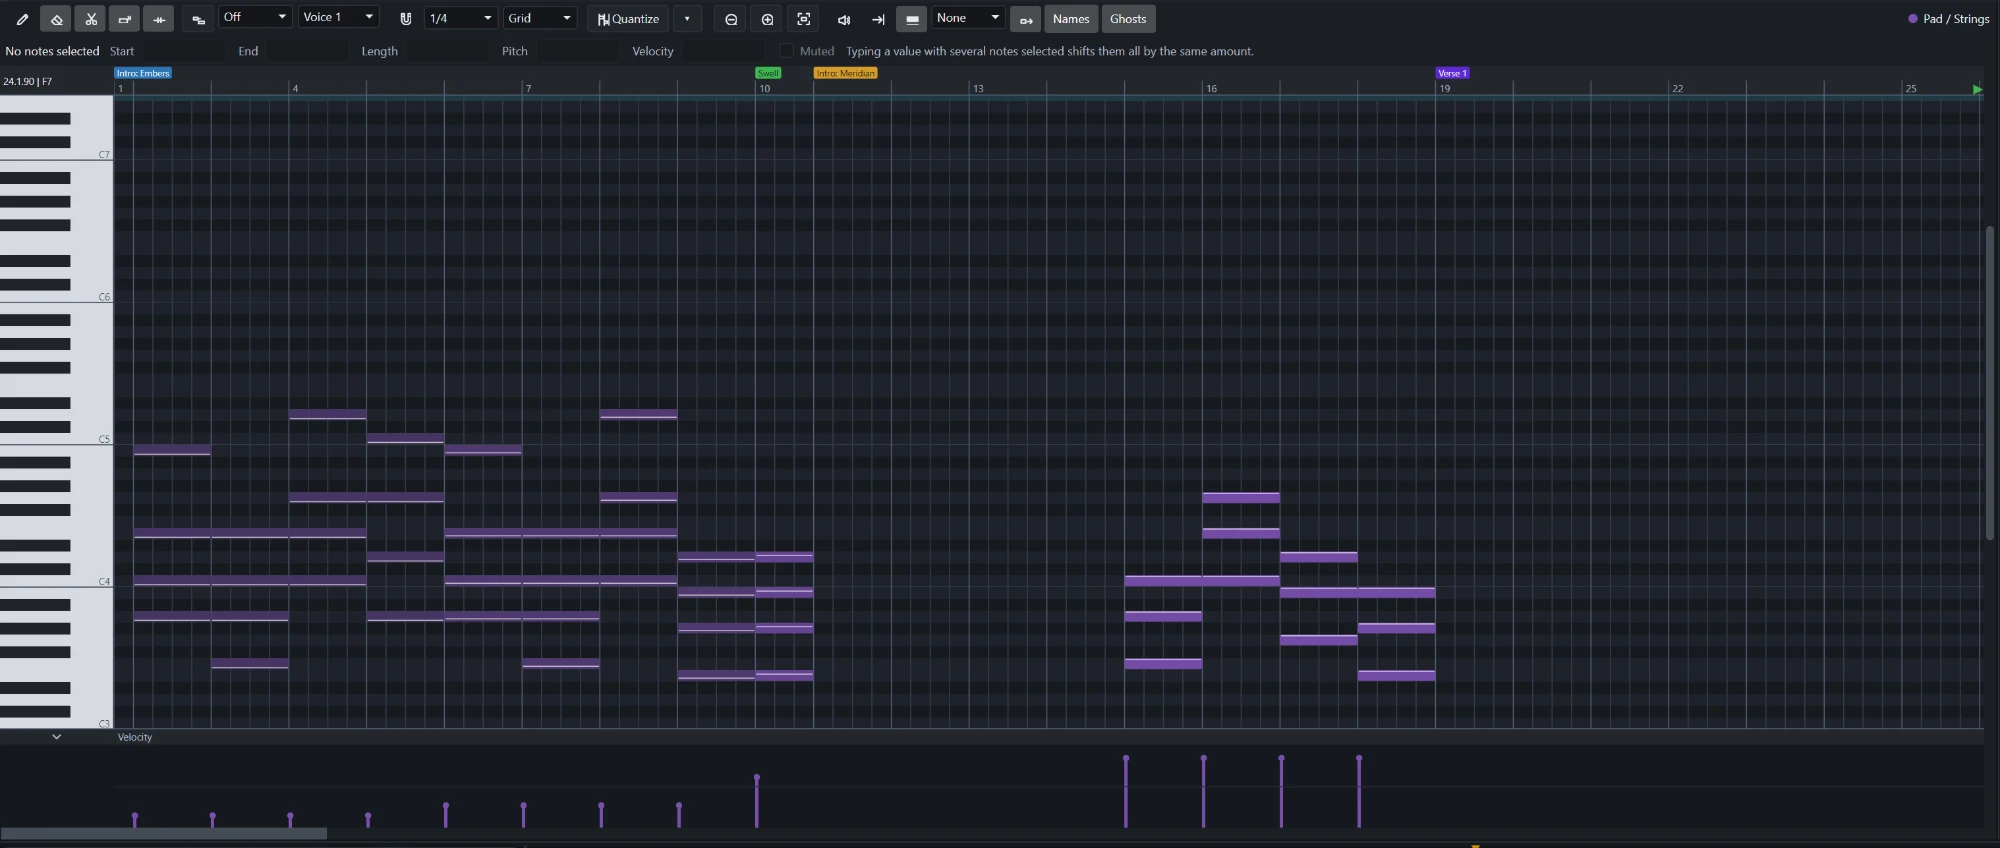
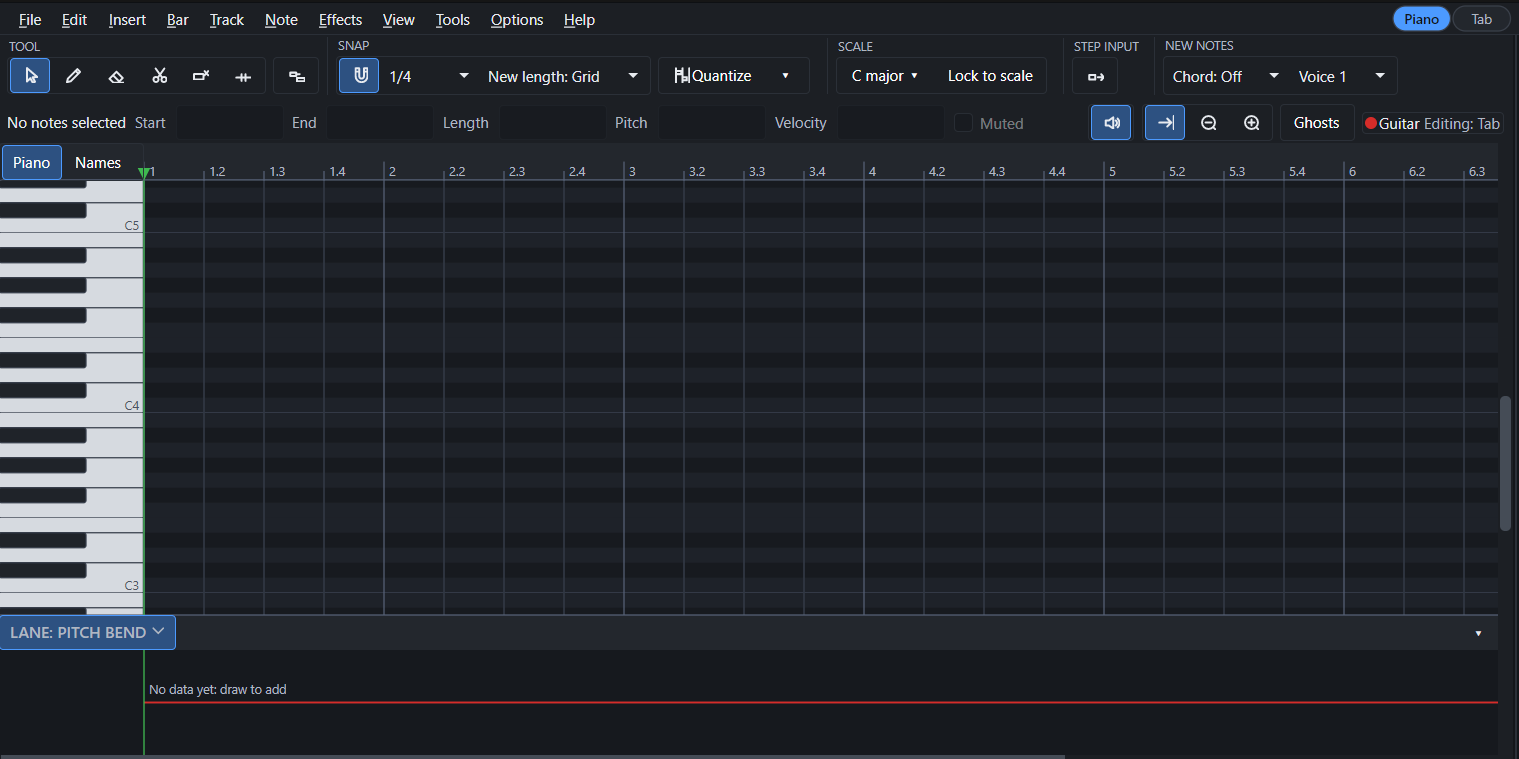
Docs: new piano roll screenshot and Active on picture

diff --git a/README.md b/README.md
@@ -95,7 +95,11 @@ TabForge now runs on Avalonia, which made the experimental Linux build possible.
 
 **Piano roll (new in 0.8.1).** MIDI tracks and takes open in a piano roll: draw, move, resize, split, glue and quantize notes, with velocity, CC and pitch-bend lanes, a scale highlight, and live recording straight into it. Switch any track between Piano and Tab with the pills in the menu bar. Redesigned in 0.8.6: a Select tool, a two-row toolbar with Snap, Scale and Step input groups, a master scale panel, a lane picker for velocity and controller lanes, and outlined notes.
 
-<a href="docs/media/screenshots/piano-roll.png"><img src="docs/media/screenshots/piano-roll.png" alt="The MIDI piano roll" width="640"></a>
+<a href="docs/media/screenshots/piano-roll.png"><img src="docs/media/screenshots/piano-roll.png" alt="The redesigned MIDI piano roll with the lane picker and outlined notes" width="640"></a>
+
+Each plug-in or container can be set to play only for a chosen driver type (ASIO or WASAPI) and output device, in the Active on popup.
+
+<a href="docs/media/screenshots/active-on.png"><img src="docs/media/screenshots/active-on.png" alt="The Active on popup with Driver type and Output device" width="360"></a>
 
 </details>
 
